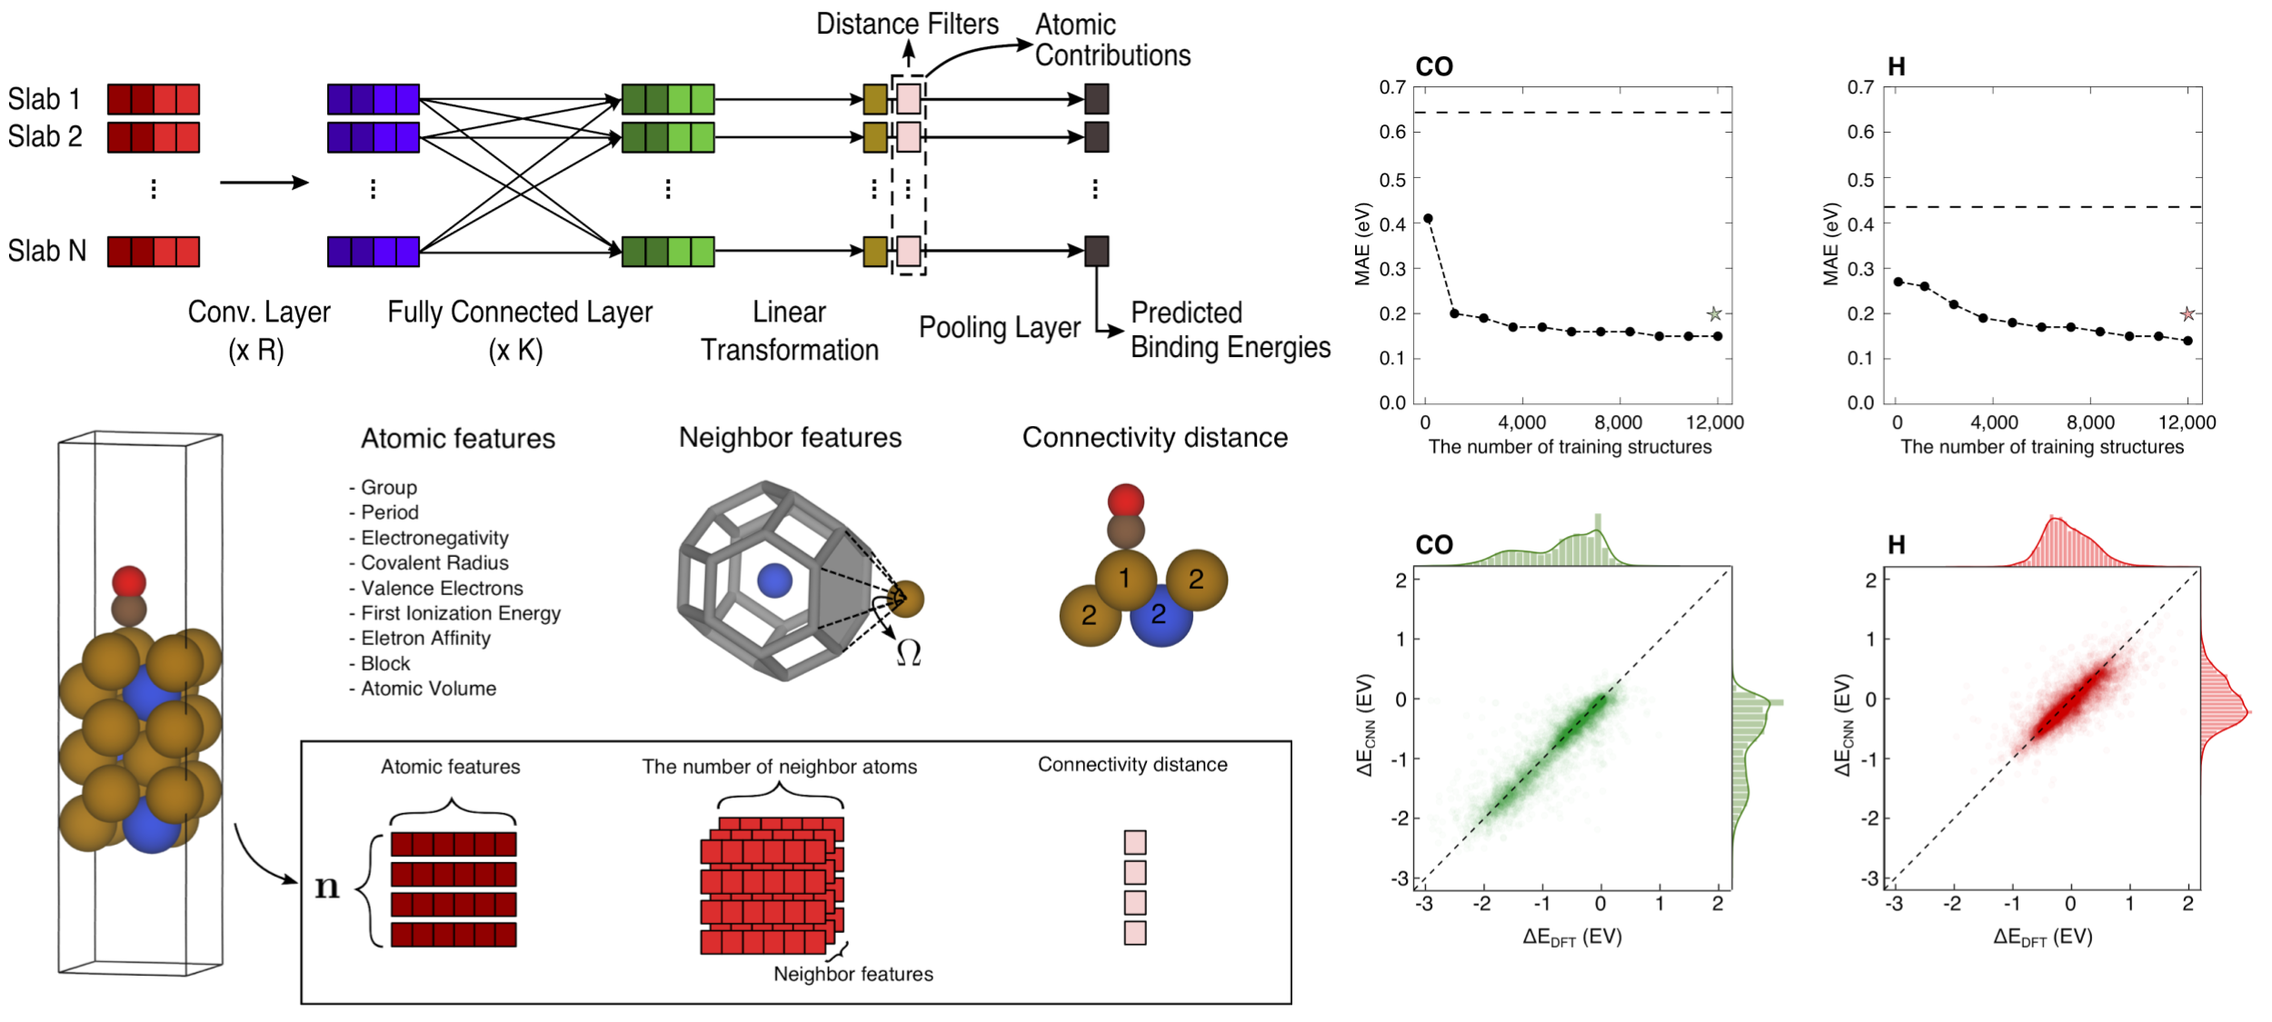
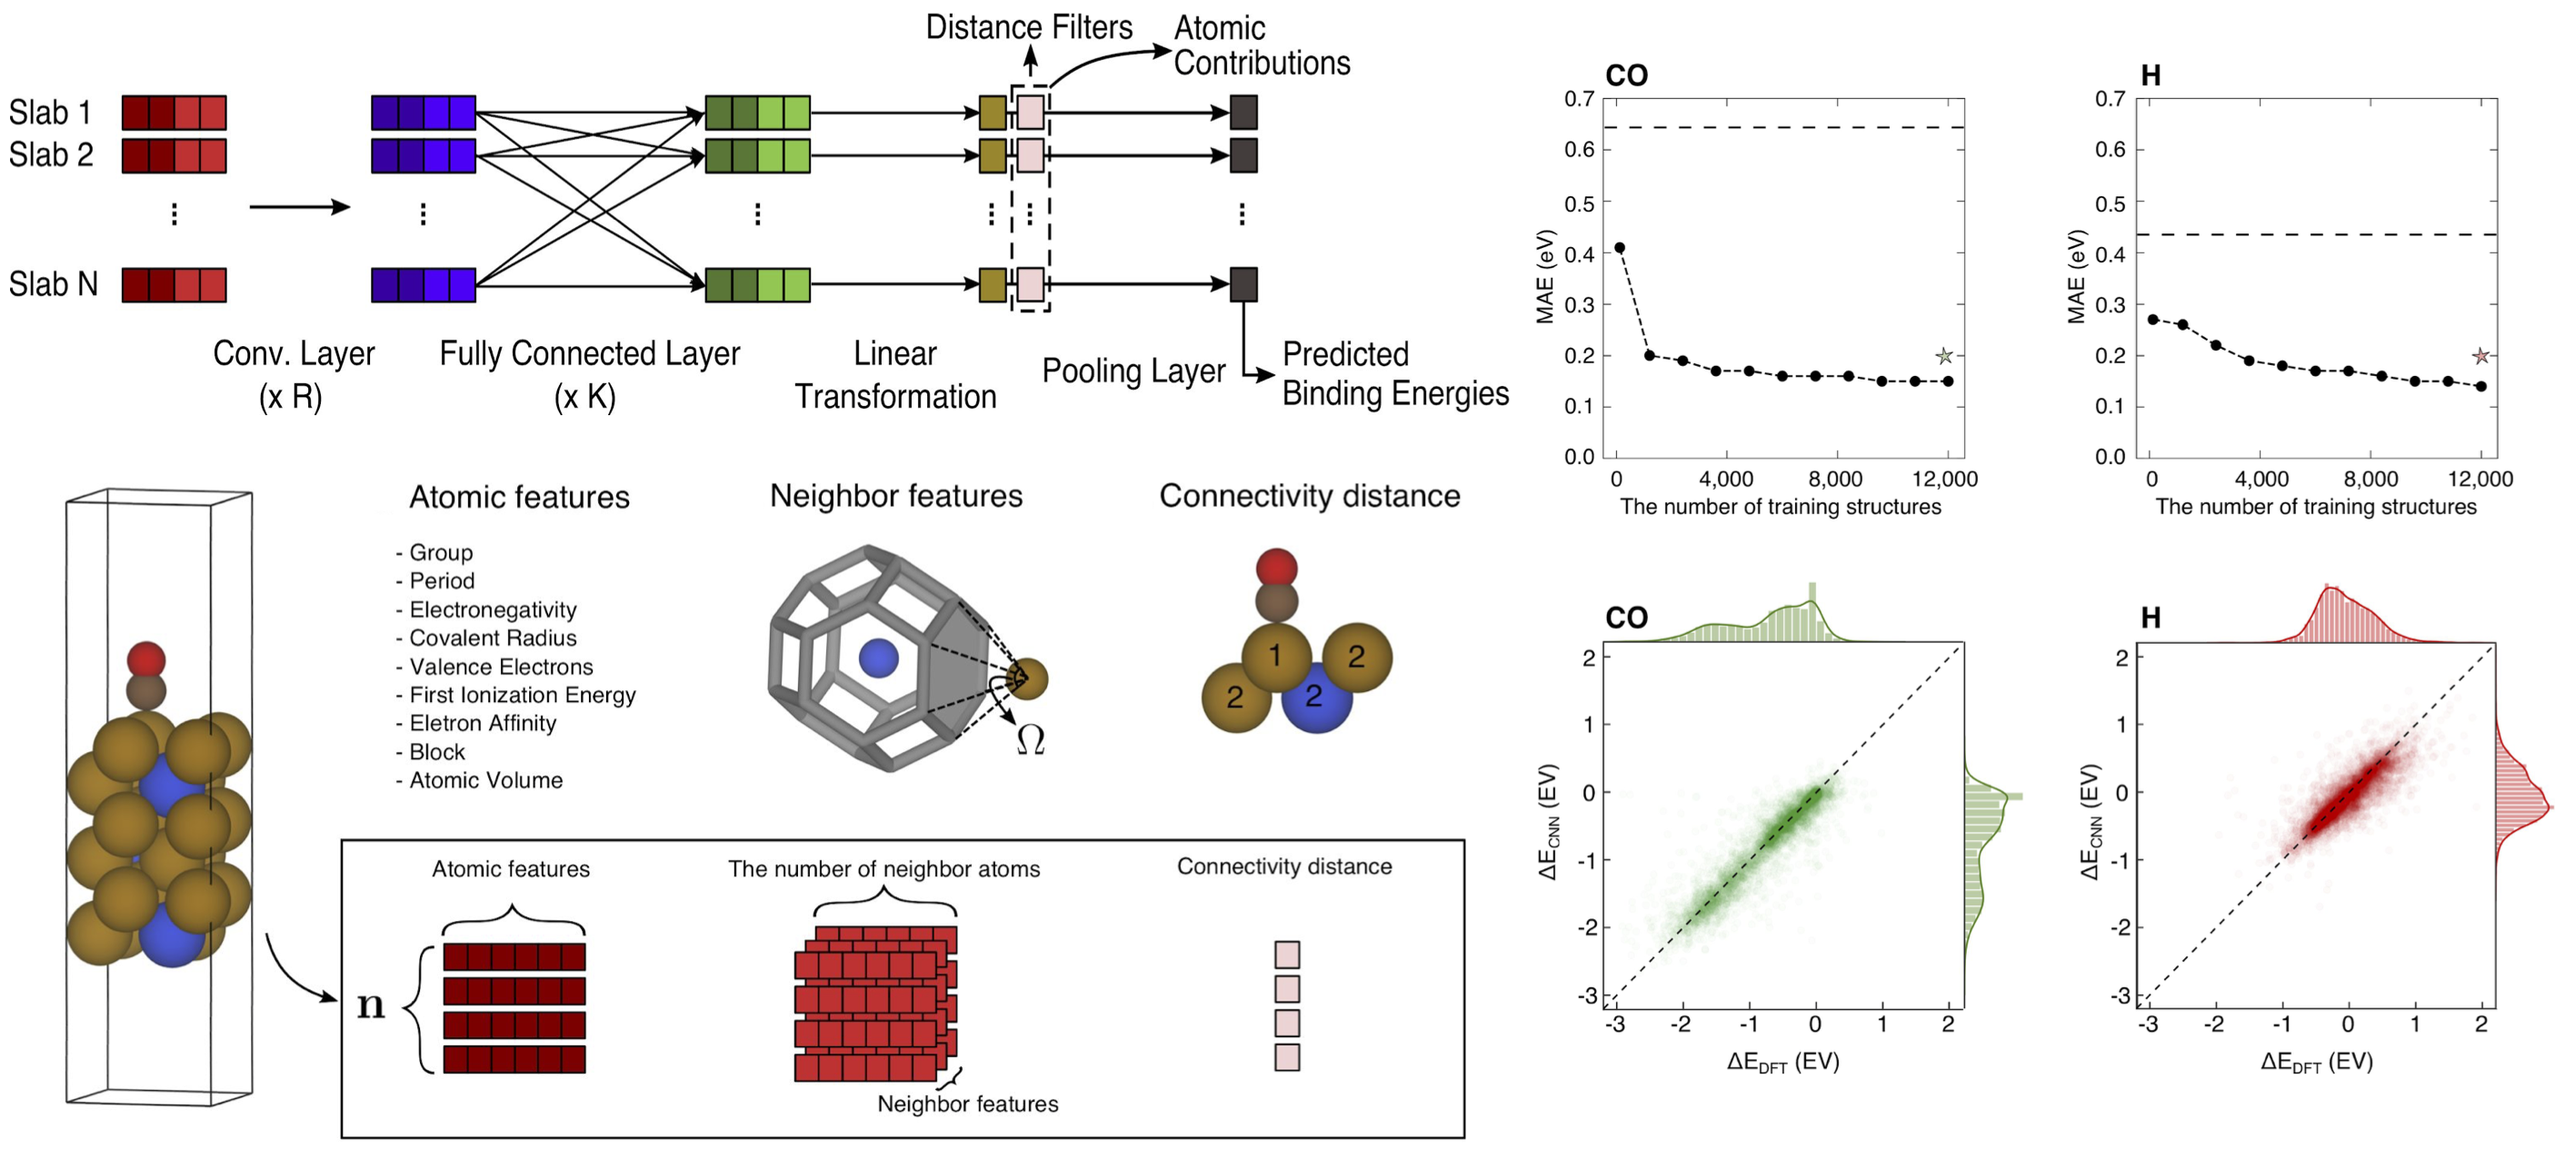
new img

diff --git a/_publications/ocp_dataset.md b/_publications/ocp_dataset.md
@@ -7,6 +7,6 @@ link: 'https://opencatalystproject.org/'
 project: "opencatalystproject.org"
 paperurl: 'https://arxiv.org/abs/2010.09990'
 github: 'https://github.com/open-catalyst-project/ocp'
-image: '../images/publications/ocp_overview.jpg'
+image: '../images/publications/ocp_overview.png'
 citation: 'Lowik Chanussot*, Abhishek Das*, Siddharth Goyal*, Thibaut Lavril*, Muhammed Shuaibi*, Morgane Riviere, Kevin Tran, Javier Heras-Domingo, Caleb Ho, Weihua Hu, Aini Palizhati, Anuroop Sriram, Brandon Wood, <b>Junwoong Yoon</b>, Devi Parikh, C. Lawrence Zitnick, Zachary Ulissi'
 ---

diff --git a/_publications/dogss.md b/_publications/dogss.md
@@ -5,7 +5,7 @@ permalink: /publication/dogss
 date: 2020-10-21
 journal: 'Phys. Rev. Lett.'
 paperurl: 'https://journals.aps.org/prl/abstract/10.1103/PhysRevLett.125.173001'
-image: '../images/publications/dogss.jpg'
+image: '../images/publications/dogss.png'
 github: 'https://github.com/open-catalyst-project/ocp'
 citation: '<b>Junwoong Yoon</b>, Zachary Ulissi'
 ---
